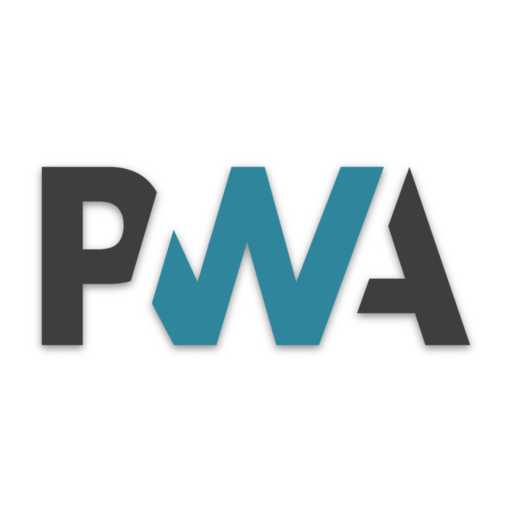
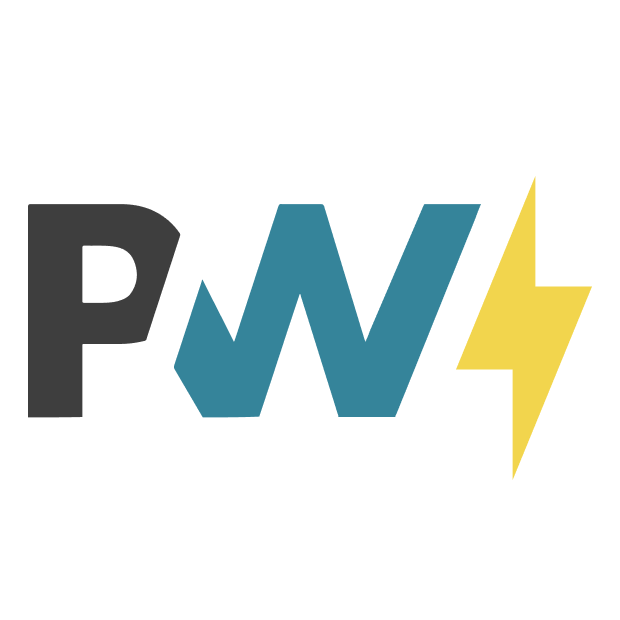
chore: update visual

diff --git a/docs/.vitepress/theme/components/HomeHero.vue b/docs/.vitepress/theme/components/HomeHero.vue
@@ -1,9 +1,5 @@
 <script setup lang="ts">
-import { useFrontmatter } from 'vitepress'
-
-const data = useFrontmatter()
-
-const heroImage = computed(() => data.value.heroImage)
+import { isDark } from '../composables/dark'
 </script>
 
 <template>
@@ -11,42 +7,34 @@ const heroImage = computed(() => data.value.heroImage)
 
     <p class="hero-img">
       <a href="https://github.com/antfu/vite-plugin-pwa" target="_blank" rel="noopener">
-        <img :src="heroImage" alt="Zero-config PWA for Vite" width="840" height="420">
+        <img v-show="isDark" src="/banner_dark.svg" alt="Zero-config PWA for Vite" width="700">
+        <img v-show="!isDark" src="/banner_light.svg" alt="Zero-config PWA for Vite" width="700">
       </a>
-      <br>
     </p>
 
-    <p class="version-img">
+    <!-- <p class="version-img">
       <a href="https://www.npmjs.com/package/vite-plugin-pwa" target="_blank" rel="noopener">
         <img src="https://img.shields.io/npm/v/vite-plugin-pwa?color=2e859c&label="  alt="Zero-config PWA for Vite NPM" width="45" height="20">
       </a>
       <br>
-    </p>
+    </p> -->
 
-
-    <NavLink :item="{ link: '/guide/', text: 'Get Started' }" class="action mx-2" />
-
+    <div class="-mt-10 mb-40">
+      <NavLink :item="{ link: '/guide/', text: 'Get Started' }" class="action mx-2" />
+    </div>
   </header>
 </template>
 
-<style scoped>
+<style scoped lang="postcss">
 .home-hero {
-  margin: 0 0 2.75rem;
-  padding: 0 1.5rem;
+  margin: 0 0 1rem;
+  padding: 0;
   text-align: center;
   .hero-img {
     text-align: center;
     img {
       object-fit: scale-down;
-      filter: var(--hero-filter);
     }
-  }
-}
-
-
-@media (min-width: 421px) and (max-width: 890px) {
-  .home-hero {
-    margin: 0 0 4.25rem;
   }
 }
 
@@ -119,14 +107,14 @@ const heroImage = computed(() => data.value.heroImage)
   font-size: 1.1rem;
   font-weight: 500;
   border: 0;
-  color: #0c0c0c;
+  color: var(--c-bg);
   background-color: var(--c-brand);
   transition: background-color 0.1s ease;
 }
 
 .action :deep(.item:hover) {
   text-decoration: none;
-  color: #0c0c0c;
+  color: var(--c-bg);
   background-color: var(--c-brand-light);
 }
 

diff --git a/docs/.vitepress/theme/components/PwaLogo.vue b/docs/.vitepress/theme/components/PwaLogo.vue
@@ -1,29 +1,8 @@
 <template>
-  <svg
-      class="pwa-logo"
-      xmlns="http://www.w3.org/2000/svg"
-      aria-hidden="true"
-      x="0px"
-      y="0px"
-      viewBox="0 0 410 401"
-      width="48"
-      height="48"
-  >
-    <g transform="matrix(.18288 0 0 .20215 26.512 127.72)" stroke-linejoin="round" stroke-width=".2">
-      <path class="p_a" d="m1436.6 603.3 56.39-142.6h162.82l-77.27-216.32 96.64-244.39 276.8 734.93h-204.13l-47.3-131.63z"/>
-      <path class="w" d="m1262.5 734.94 296.32-734.93-196.45 9.7657e-4 -202.7 474.93-144.14-474.93h-151l-154.77 474.93-109.15-216.42-98.773 304.3 100.28 172.12h193.33l139.86-425.91 133.35 425.91z"/>
-      <path class="p_a" d="m186.48 482.64h121c36.654 0 69.293-4.091 97.917-12.273l118.75-365.85c-6.664-10.562-14.272-20.549-22.824-29.959-44.905-49.705-110.6-74.556-197.1-74.556h-304.22v734.93h186.48zm160.17-313.56c17.54 17.653 26.309 41.276 26.309 70.871 0 29.822-7.713 53.474-23.138 70.956-16.91 19.425-48.047 29.137-93.409 29.137h-69.928v-197.44h70.442c42.277 0 72.185 8.827 89.724 26.481z"/>
-    </g>
-  </svg>
+  <img v-show="!isDark" src="/icon_light.svg" height="50" class="align-middle" alt="Vite Plugin PWA Logo"/>
+  <img v-show="isDark" src="/icon_dark.svg" height="50" class="align-middle" alt="Vite Plugin PWA Logo"/>
 </template>
 
-<style scoped>
-svg.pwa-logo > g > path {
-  &.p_a {
-    fill: var(--pwa-logo-p);
-  }
-  &.w {
-    fill: var(--pwa-logo-w);
-  }
-}
-</style>
+<script setup lang="ts">
+import { isDark } from '../composables/dark'
+</script>

diff --git a/docs/.vitepress/theme/styles/vars.css b/docs/.vitepress/theme/styles/vars.css
@@ -21,7 +21,7 @@
     --c-brand: #2e859c;
     --c-brand-active: #2c7f95;
     --c-brand-dark: #00586e;
-    --c-brand-light: #bce1eb;
+    --c-brand-light: #52b1cc;
 
     --c-disabled-bg: #e5e5e5;
     --c-disabled-fg: #666;
@@ -83,16 +83,15 @@ html.dark {
     --code-inline-bg-color: rgba(255, 255, 255, .04);
     --code-highlight: rgba(0, 0, 0, .66);
 
-    --c-brand: #c77b66;
-    --c-brand-active: #d59b8b;
-    --c-brand-dark: #834230;
-    --c-brand-light: #e1b8ad;
+    --c-brand: #4AA6C0;
+    --c-brand-active: #2c7f95;
+    --c-brand-dark: #00586e;
+    --c-brand-light: #52b1cc;
 
     --c-disabled-bg: #333;
     --c-disabled-fg: #aaa;
 
     --pwa-logo-p: #b9b9b9;
-    --hero-filter: invert(93.2%);
 }
 
 /** Fallback Styles */
@@ -110,5 +109,4 @@ html.dark {
     --code-font-size: 14px;
 
     --pwa-logo-w: var(--c-brand);
-    --hero-filter: initial;
 }

diff --git a/docs/vite.config.ts b/docs/vite.config.ts
@@ -77,19 +77,14 @@ export default defineConfig({
         theme_color: '#ffffff',
         icons: [
           {
-            src: 'pwa-192x192.png',
-            sizes: '192x192',
-            type: 'image/png',
-          },
-          {
             src: 'pwa-512x512.png',
             sizes: '512x512',
             type: 'image/png',
           },
           {
-            src: 'pwa-512x512.png',
+            src: 'icon_light.svg',
             sizes: '512x512',
-            type: 'image/png',
+            type: 'image/svg',
             purpose: 'any maskable',
           },
         ],

diff --git a/docs/.vitepress/theme/components/HomeFooter.vue b/docs/.vitepress/theme/components/HomeFooter.vue
@@ -1,15 +1,8 @@
 <template>
   <footer v-if="$frontmatter.footer" class="footer">
-    <div class="container">
-      <p class="text">
-        {{ $frontmatter.footer }}
-      </p>
-      <p class="text-center opacity-75">
-        <a href="https://www.netlify.com" target="_blank" rel="noopener">
-          <img src="/netlify.svg" alt="Deploys by Netlify" width="114" height="51">
-        </a>
-      </p>
-    </div>
+    <p class="text">
+      {{ $frontmatter.footer }}
+    </p>
   </footer>
 </template>
 

diff --git a/docs/.vitepress/theme/components/NavBarTitle.vue b/docs/.vitepress/theme/components/NavBarTitle.vue
@@ -4,7 +4,7 @@
     href="/"
     aria-label="Vite Plugin PWA, back to home`"
   >
-    <span class="title">Vite Plugin</span>&#160;<PwaLogo class="logo" alt="Vite Plugin PWA Logo" />
+    <span class="title">Vite Plugin</span>&#160;<PwaLogo />
   </a>
 </template>
 
@@ -20,12 +20,6 @@
 
 .nav-bar-title:hover {
   text-decoration: none;
-}
-
-.logo {
-  margin-right: .5rem;
-  height: 3rem;
-  vertical-align: middle;
 }
 
 .title {

diff --git a/docs/.vitepress/theme/styles/layout.css b/docs/.vitepress/theme/styles/layout.css
@@ -284,14 +284,8 @@ form {
   text-align: center;
 
 }
-.version-img img {
-  filter: var(--hero-filter);
-}
 
 html.dark .version-img {
   text-align: center;
-}
-html.dark .version-img img {
-  filter: var(--hero-filter);
 }
 

diff --git a/docs/.vitepress/theme/components/PromptForUpdateImg.vue b/docs/.vitepress/theme/components/PromptForUpdateImg.vue
@@ -5,12 +5,11 @@
 
 </template>
 
-<style scoped>
+<style scoped lang="postcss">
 .prompt-img {
   text-align: center;
   img {
     object-fit: scale-down;
-    filter: var(--hero-filter);
   }
 }
 </style>

diff --git a/docs/index.md b/docs/index.md
@@ -4,7 +4,5 @@ home: true
 actionText: Get Started
 actionLink: /guide/
 
-heroImage: /hero.png
-
 footer: MIT Licensed | Copyright © 2021-PRESENT Anthony Fu
 ---
